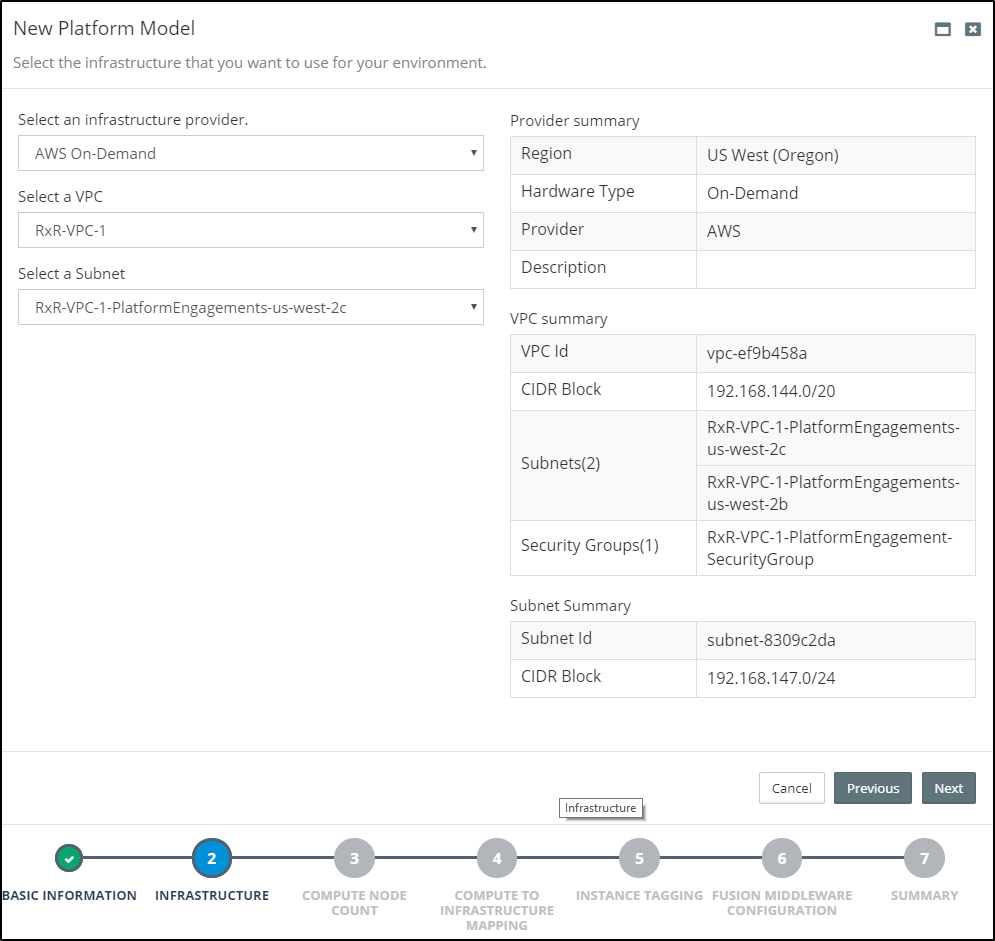
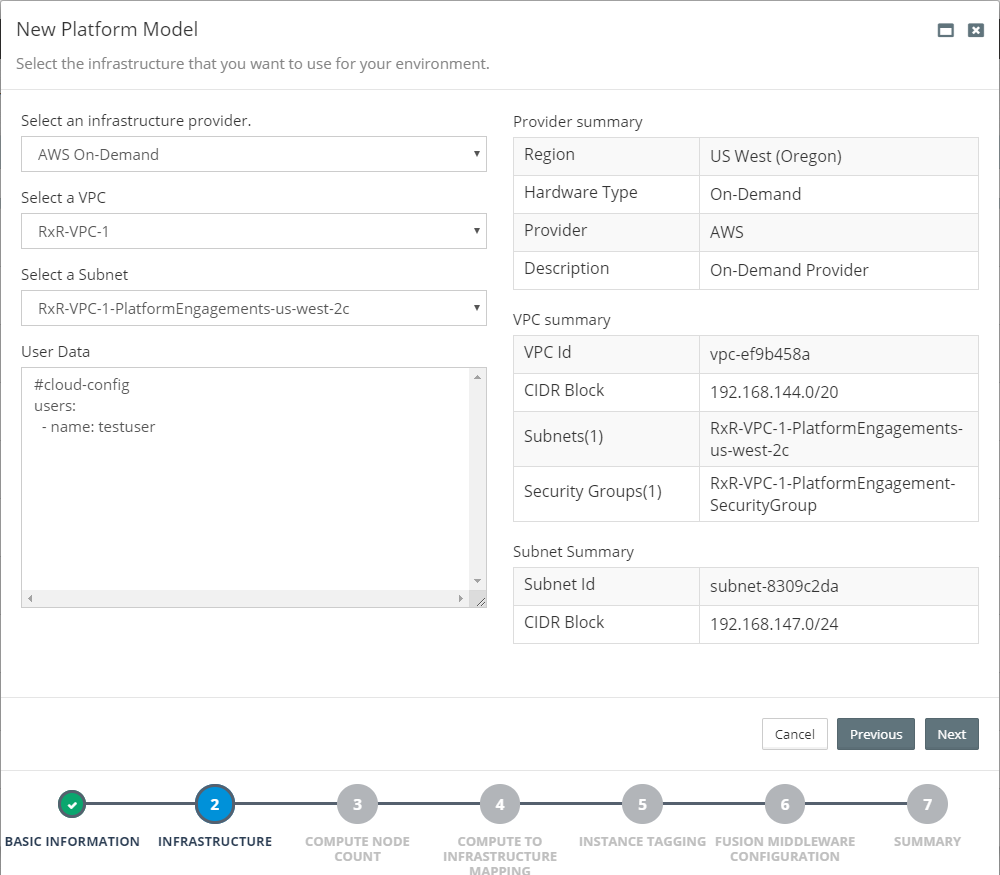
FC-XXXX-${Replace with your commit message and ticket Id}

diff --git a/infrastructure/providers/on-demand/aws/README.md b/infrastructure/providers/on-demand/aws/README.md
@@ -8,10 +8,10 @@ However, if you _want_ to pre-register the hosts, say if different teams are res
 ### Create On Demand(AWS) Infrastructure
 Click `Create New` and select `On Demand(AWS)` from the options provided. This will open the **Create New On Demand** dialog. Here we need to specify the following values:
 
-* **Name** - Shorthand name for the On Demand Infrastructure Provider
-* **Description** - A longer description of the On Demand Infrastructure Provider
-* **Region** - Select the region to which geographic area your AWS belong.
-* **Authentication Mechanism** - Select the Access / Secret Keys Authentication Mechanism and provide valid Access key and Secret key. 
+* **Name:**  Shorthand name for the On Demand Infrastructure Provider
+* **Description:**  A longer description of the On Demand Infrastructure Provider
+* **Region:**  Select the region to which geographic area your AWS belong.
+* **Authentication Mechanism:**  Select the Access / Secret Keys Authentication Mechanism and provide valid Access key and Secret key. 
 
 ![](img/OnDemandInfraAdd.png)
 
@@ -20,12 +20,12 @@ Click on create. Once you click on create you can see all the information like V
 ![](img/OnDemandCreate.png)
 
 
-* **VPC(Virtual Private Cloud)** - Select the virtual network where you want to launch or create your Infrastructure.
-* **Subnets** - Select the subnet from the available subnets against the VPC selected.
-* **Secuirty Groups** - Select the Security Group that's created for that VPC selected.
-* **AMI(Amazon Machine Images)** - AMI provides the information required to launch an Infrastructure like an operating system, an application server, and applications and permissions that control which AWS accounts can use the AMI to launch instances. Select the AMI based on your requirement.
-* **Instance Types** - Instance Type specifies the hardware of the host computer used for your instance. Each instance type offers different compute, memory, and storage capabilities. Select the instance type based on your requirement.
-* **AWS Key Pairs** -  This is the private key content that is accessed securely to access your infrastructure. Select valid AMI and provide the private key content.
+* **VPC(Virtual Private Cloud):**  Select the virtual network where you want to launch or create your Infrastructure.
+* **Subnets:**  Select the subnet from the available subnets against the VPC selected.
+* **Secuirty Groups:**  Select the Security Group that's created for that VPC selected.
+* **AMI(Amazon Machine Images):**  AMI provides the information required to launch an Infrastructure like an operating system, an application server, and applications and permissions that control which AWS accounts can use the AMI to launch instances. Select the AMI based on your requirement.
+* **Instance Types:**  Instance Type specifies the hardware of the host computer used for your instance. Each instance type offers different compute, memory, and storage capabilities. Select the instance type based on your requirement.
+* **AWS Key Pairs:**   This is the private key content that is accessed securely to access your infrastructure. Select valid AMI and provide the private key content.
 * **OS Admin Credentials:** Reserved for future functionality.
 * ** Agent Key Pairs:** Used to define all the required key pairs used to connect to the hosts within the Infrastructure Providers. Each MyST Key Pair contains the private key for key pairs that we can use in credentials for the hosts that are part of our Infrastructure Provider.  
 
@@ -38,14 +38,17 @@ Click on create. Once you click on create you can see all the information like V
 #### Add OS Agent Credential
 To add an OS Agent Credential, click `Add OS Agent Credential`, specify the following values:
 
-* **Name** - Shorthand name for the OS Agent Credential
-* **SSH User Name** - The SSH User Name that will be used to connect to the host
-* **Connect Using** - Specifies the type of credentials used to authenticate the SSH user, can be  either `Key Pair` or `Password`
-* **Key Pair** - If `Key Pair` is specified, then select the Key Pair to use from the Drop Down.
-* **Password** - If `Password` is specified, then enter the password to be used to authenticate the user.
-* **Run as different user** - Select this to use **sudo** to enable the MyST agent to run as a different user.
-* **Other User Name** - If `Run as different user` is set to `Yes`. Specify the user account under whose identity the MyST agent will perform all tasks.
+* **Name:**  Shorthand name for the OS Agent Credential
+* **SSH User Name:**  The SSH User Name that will be used to connect to the host
+* **Connect Using:**  Specifies the type of credentials used to authenticate the SSH user, can be  either `Key Pair` or `Password`
+* **Key Pair:**  If `Key Pair` is specified, then select the Key Pair to use from the Drop Down.
+* **Password:**  If `Password` is specified, then enter the password to be used to authenticate the user.
+* **Run as different user:**  Select this to use **sudo** to enable the MyST agent to run as a different user.
+* **Other User Name:**  If `Run as different user` is set to `Yes`. Specify the user account under whose identity the MyST agent will perform all tasks.
 
+![](img/osAgentCredentials.png)
+
+* **User Data Template:** User Data Template holds the user data which will be run only once during the initial boot of the instance. This can be a set of instructions that has to be run on the instance .
 
 Click **Save** to save your infrastructure provider.
 
@@ -58,3 +61,12 @@ If you want to edit the information click on the On Demand Infrastructure provid
 ![](img/ReDiscover.png)
 
 Once the changes are made click on **save**.
+
+To create and Provision a Platform Model with this Infrastructure Provider follow the following steps
+* [Platform Model On-Demand](/platform/models/on-demand-aws/README.md)
+
+
+
+
+
+

diff --git a/infrastructure/providers/on-demand/user data/README.md b/infrastructure/providers/on-demand/user data/README.md
@@ -1,0 +1,116 @@
+## {{ page.title }}
+
+###  USER DATA
+
+
+User Data is a set of instructions or commands which will be executed(if given) during the launch of the instance. These instructions are executed only during the initial bootstrap, but not every time when we restart(stop and start) instance.
+
+** Why User Data **
+
+A lot of times during launching a new instance there can be a set of common tasks to perform as part of an initial instance setup procedure. For example if you are launching a lot of instances that are being used as web servers you may want to install Apache on a Linux machine.
+
+The User Data field allows to specify these commands in a command line format which will then execute when the instance is initially launched.
+
+#### Formats of User Data
+
+* As Text
+* As File
+
+##### As Text
+
+![](img/AWSUD.png)
+
+
+
+In this format the commands are entered in the text box, starting with hashbang(#) and followed by the commands that are to be executed.
+
+##### As File
+
+In this format the user data is written in a file and the file is uploaded instead of giving the data.
+
+**Note:**
+In both the formats user data size is limited to 16K KB. If you need to enter the commands greater than 16K KB size, you need to enter the input which is base64 encoded and tick the “Input is already base64 encoded” checkbox.
+
+
+
+While setting user data be aware of following :
+
+* User data must be base64-encoded. The Amazon EC2 console can perform the base64-encoding for you or accept base64-encoded input.
+
+* User data is limited to 16 KB. This limit applies to the data in raw form, not base64-encoded form.
+
+* User data must be base64-encoded. The Amazon EC2 console can perform the base64 encoding for you or accept base64-encoded input.
+
+* If you stop an instance, modify its user data, and start the instance, the updated user data is not executed automatically when you start the instance.
+
+User Data commands is different for Windows and Linux Machines.
+
+#### User Data for Linux Machines
+
+As we already aware user data of text format starts with hashbang.
+Below example shows the installation of Apache during the launch of instance.
+
+
+
+```
+#!/bin/bash
+
+yum update -y
+yum install -y httpd.x86_64
+systemctl start httpd.service
+systemctl enable httpd.service
+
+```
+
+#### User Data for Windows Machines
+
+* To execute the user data commands in windows using Command Prompt, commands should be placed between start and end of script tags i.e <script></script>
+Below example updates the server timezone at launch.
+
+```
+<script>
+REM Set timezone
+tzutil /s "Singapore Standard Time"
+</script>
+
+```
+
+* To execute the user data commands in windows using Power Shell, commands should be placed between start and end of script tags i.e <powershell></powershell>
+Below example updates the server timezone at launch.
+
+```
+<powershell>
+tzutil /s "Singapore Standard Time"
+</powershell>
+
+```
+
+## User Data Usage in MyST
+
+#### Example:
+
+#### Creating a user while provisioning AWS instance using User Data:
+
+User data generally starts with `##cloud-config`.
+Below is the user data which helps to create a `testuser` while provisioning aws instance.
+
+```
+#cloud-config
+users:
+  - name: testuser
+  
+```
+Once the provision is successful, connect to the linux machine and execute the below command 
+
+```
+id testuser
+
+```
+if you get something like below
+
+```
+uid=54322(testuser) gid=54322(testuser) groups=54322(testuser)
+
+```
+
+It says that the `testuser` is successfully created.
